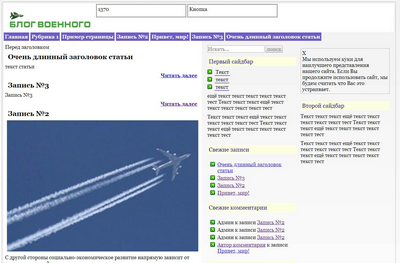
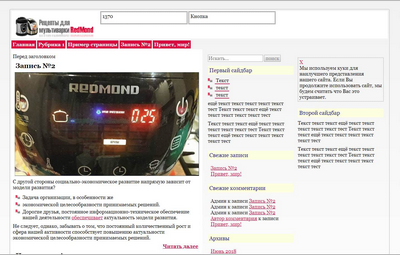
ready to implement

diff --git a/style.css b/style.css
@@ -53,10 +53,10 @@ Author URI:
 		z-index: 10;
 	}
 .menu ul {display:inline;  color: white;   list-style-image: none;}
-.menu a:hover { color: yellow; opacity: 1;}
-.menu a {text-decoration:none; color: white; background: green; padding: 4px 4px;}
+.menu a:hover { color: lightyellow; opacity: 1;}
+.menu a {text-decoration:none; color: white; background: Crimson; padding: 4px 4px;}
 .menu ul li {display:inline; padding-left: 0px; line-height: 1.9;}
-a { color: green; }
+a { color: Crimson; }
 #toggleMenu {	/* меню мобильной версии скрыто по умолчанию */	
 		display:none;
 		color: white;
@@ -121,7 +121,7 @@ img {
 		z-index: 1;
 	}
 blockquote {
-	border-left: 4px solid green;
+	border-left: 4px solid Crimson;
 	padding-left: 10px;
 	margin: 10px 10px 10px 30px;
 }
@@ -154,7 +154,7 @@ textarea {width: 95%;}
 .sidebar .menu a {
 	background: none; 
     text-decoration: none;
-    border-bottom: 2px solid green;
+    border-bottom: 2px solid Crimson;
 	padding-bottom: 1px;
 	color: black;
 	font-weight: normal;
@@ -170,7 +170,7 @@ textarea {width: 95%;}
 	padding: 0px 3px;
 	color: grey;
 }
-#footer {background: green; color: white;  padding: 10px 10px;	}
+#footer {background: Crimson; color: white;  padding: 10px 10px;	}
 
 /* ---------------- !!! СМЕНА ЭКРАНА !!! ---------------- */
 
@@ -248,22 +248,22 @@ textarea {width: 95%;}
 		font-size: 28px;	
 		text-align: center;	
 		display: block;		
-		background-color: green;	
-		color: yellow;
+		background-color: Crimson;	
+		color: lightyellow;
 	}
 	
 	.menu {
 		font-size: 22px;
 		/* border: 1px blue solid; */
-		background: green;
+		background: Crimson;
 		opacity: 0.9;
 		color: white;
 		padding-left: 10px;
 		display: none;
 	}
 
-	.menu {background: green; font-weight: 700;}
-	.menu p {background: green; color: white; margin: 0px 3px; padding: 3px 3px; text-transform: lowercase;}
+	.menu {background: Crimson; font-weight: 700;}
+	.menu p {background: Crimson; color: white; margin: 0px 3px; padding: 3px 3px; text-transform: lowercase;}
 	.menu a:hover { color: khaki;}
 	.menu a {text-decoration: none; color: white; display: list-item;}
 	.menu ul {display: list-item; }
